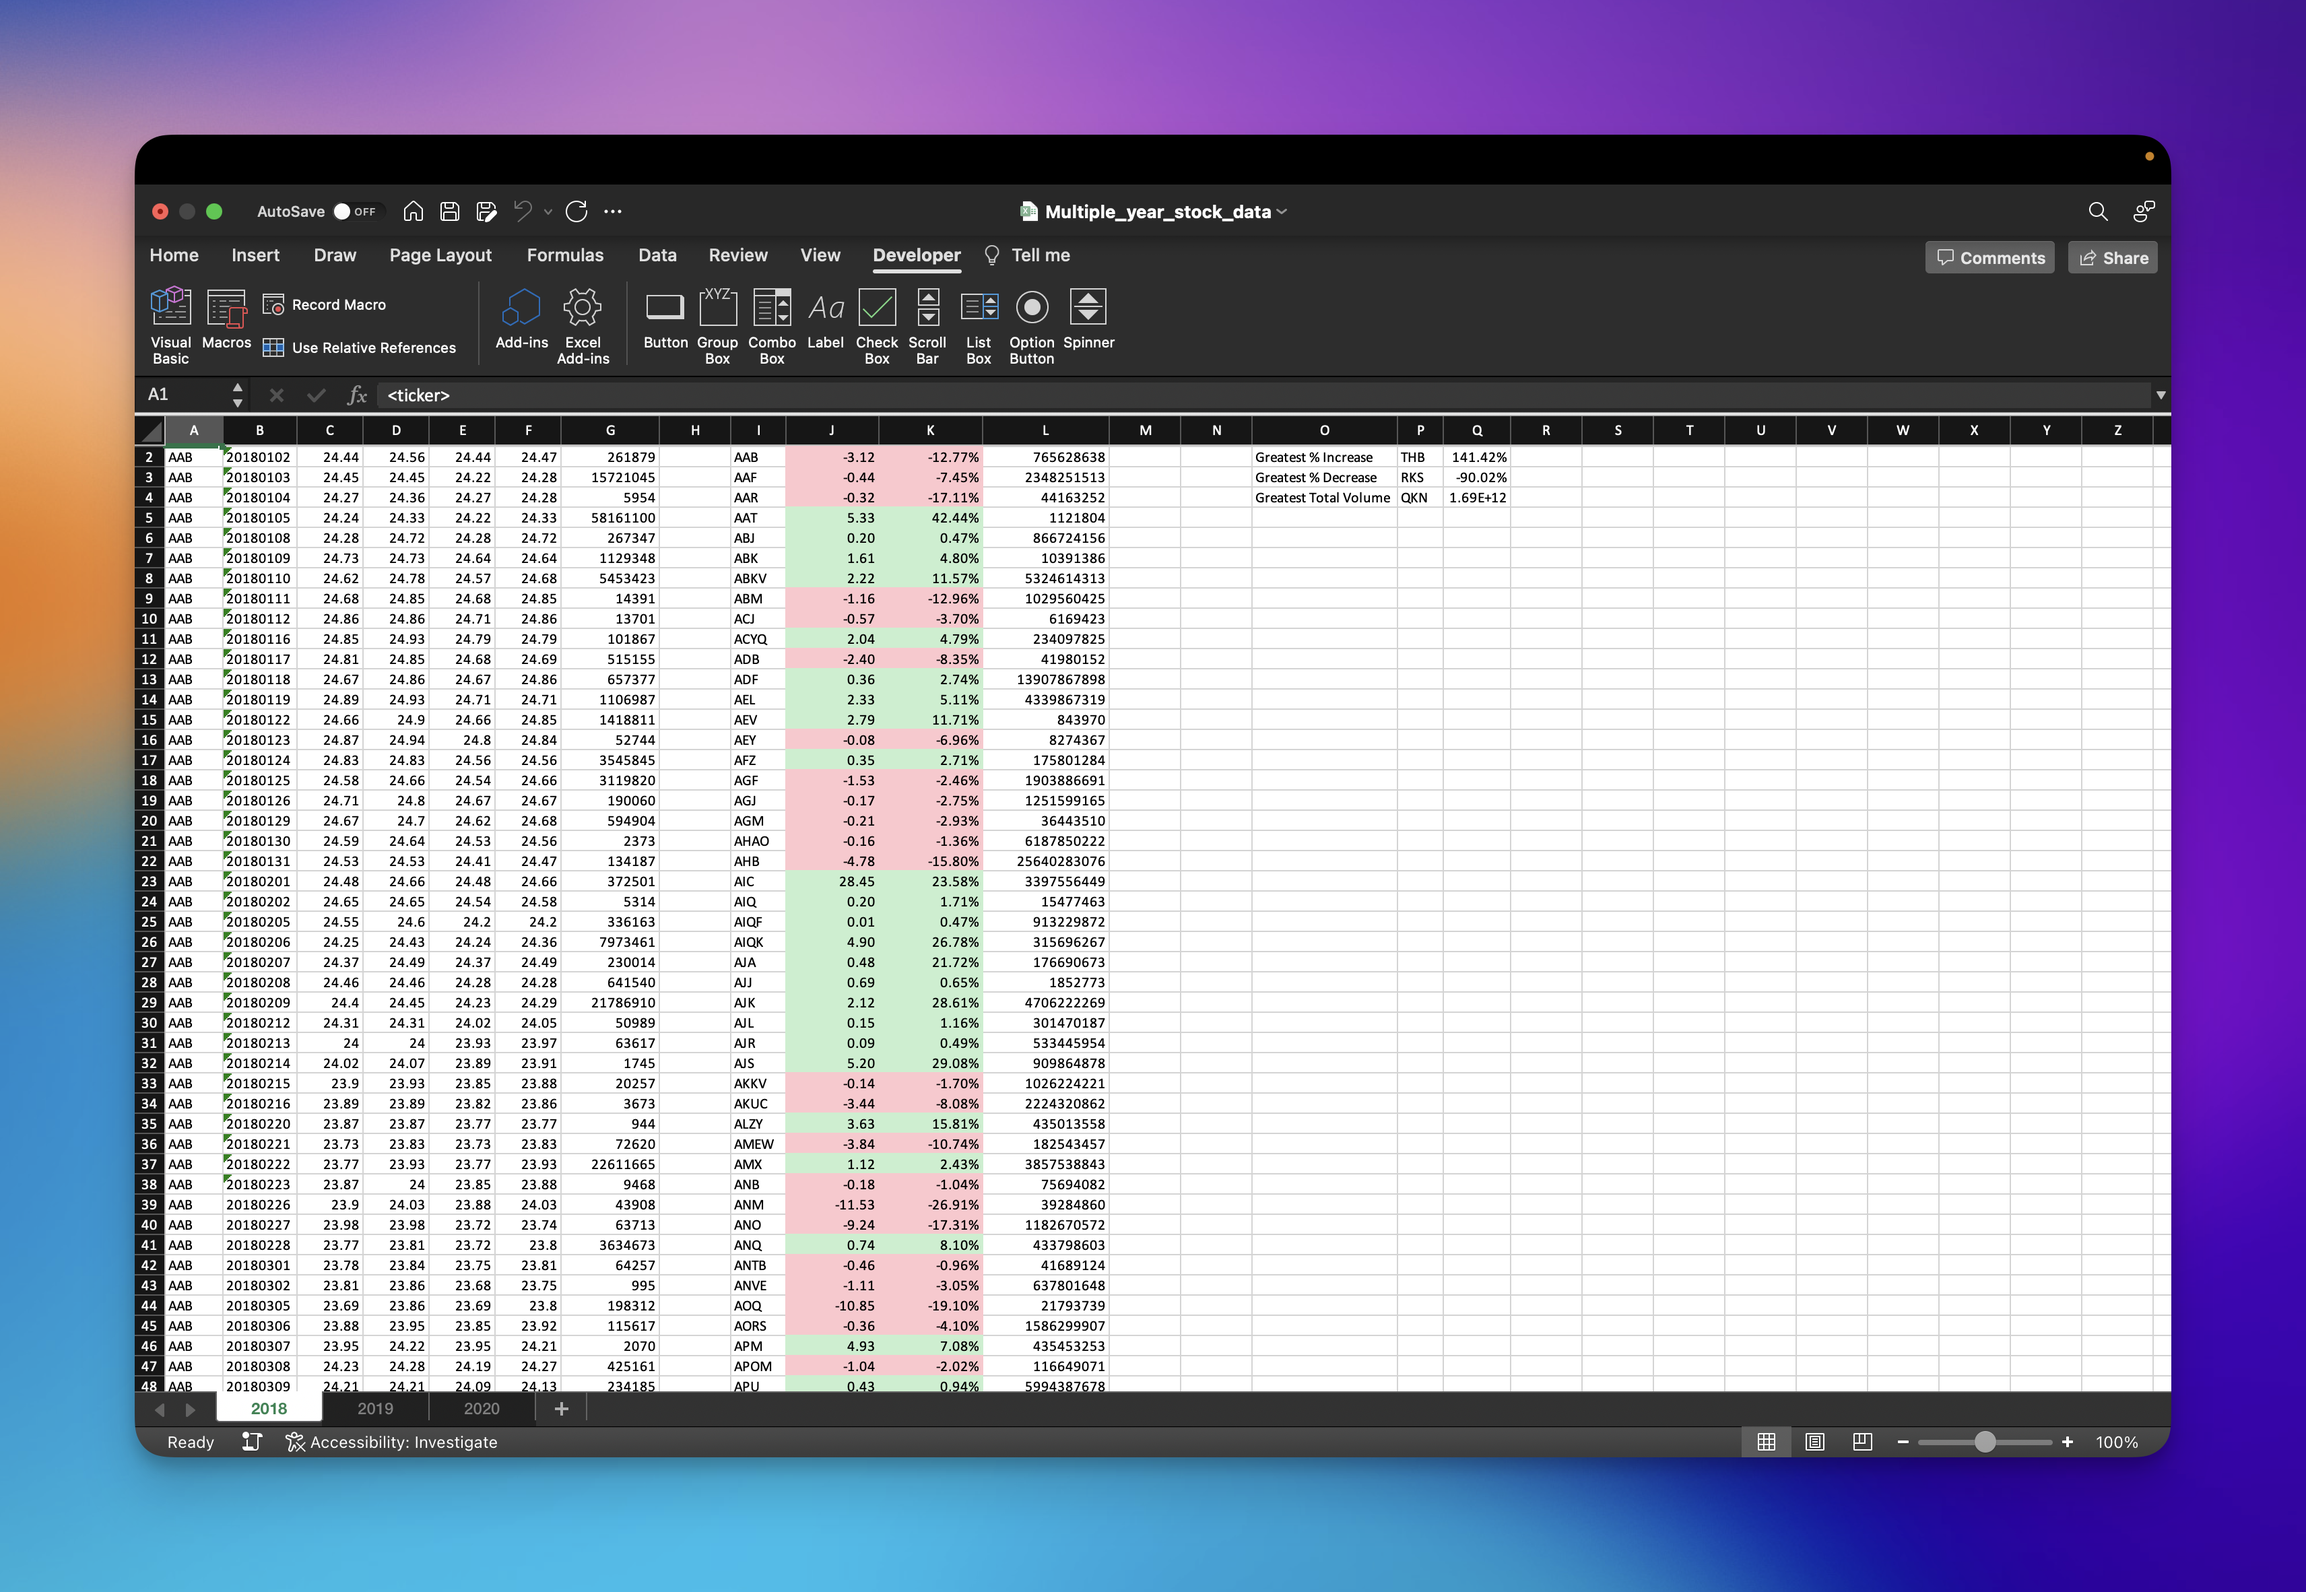
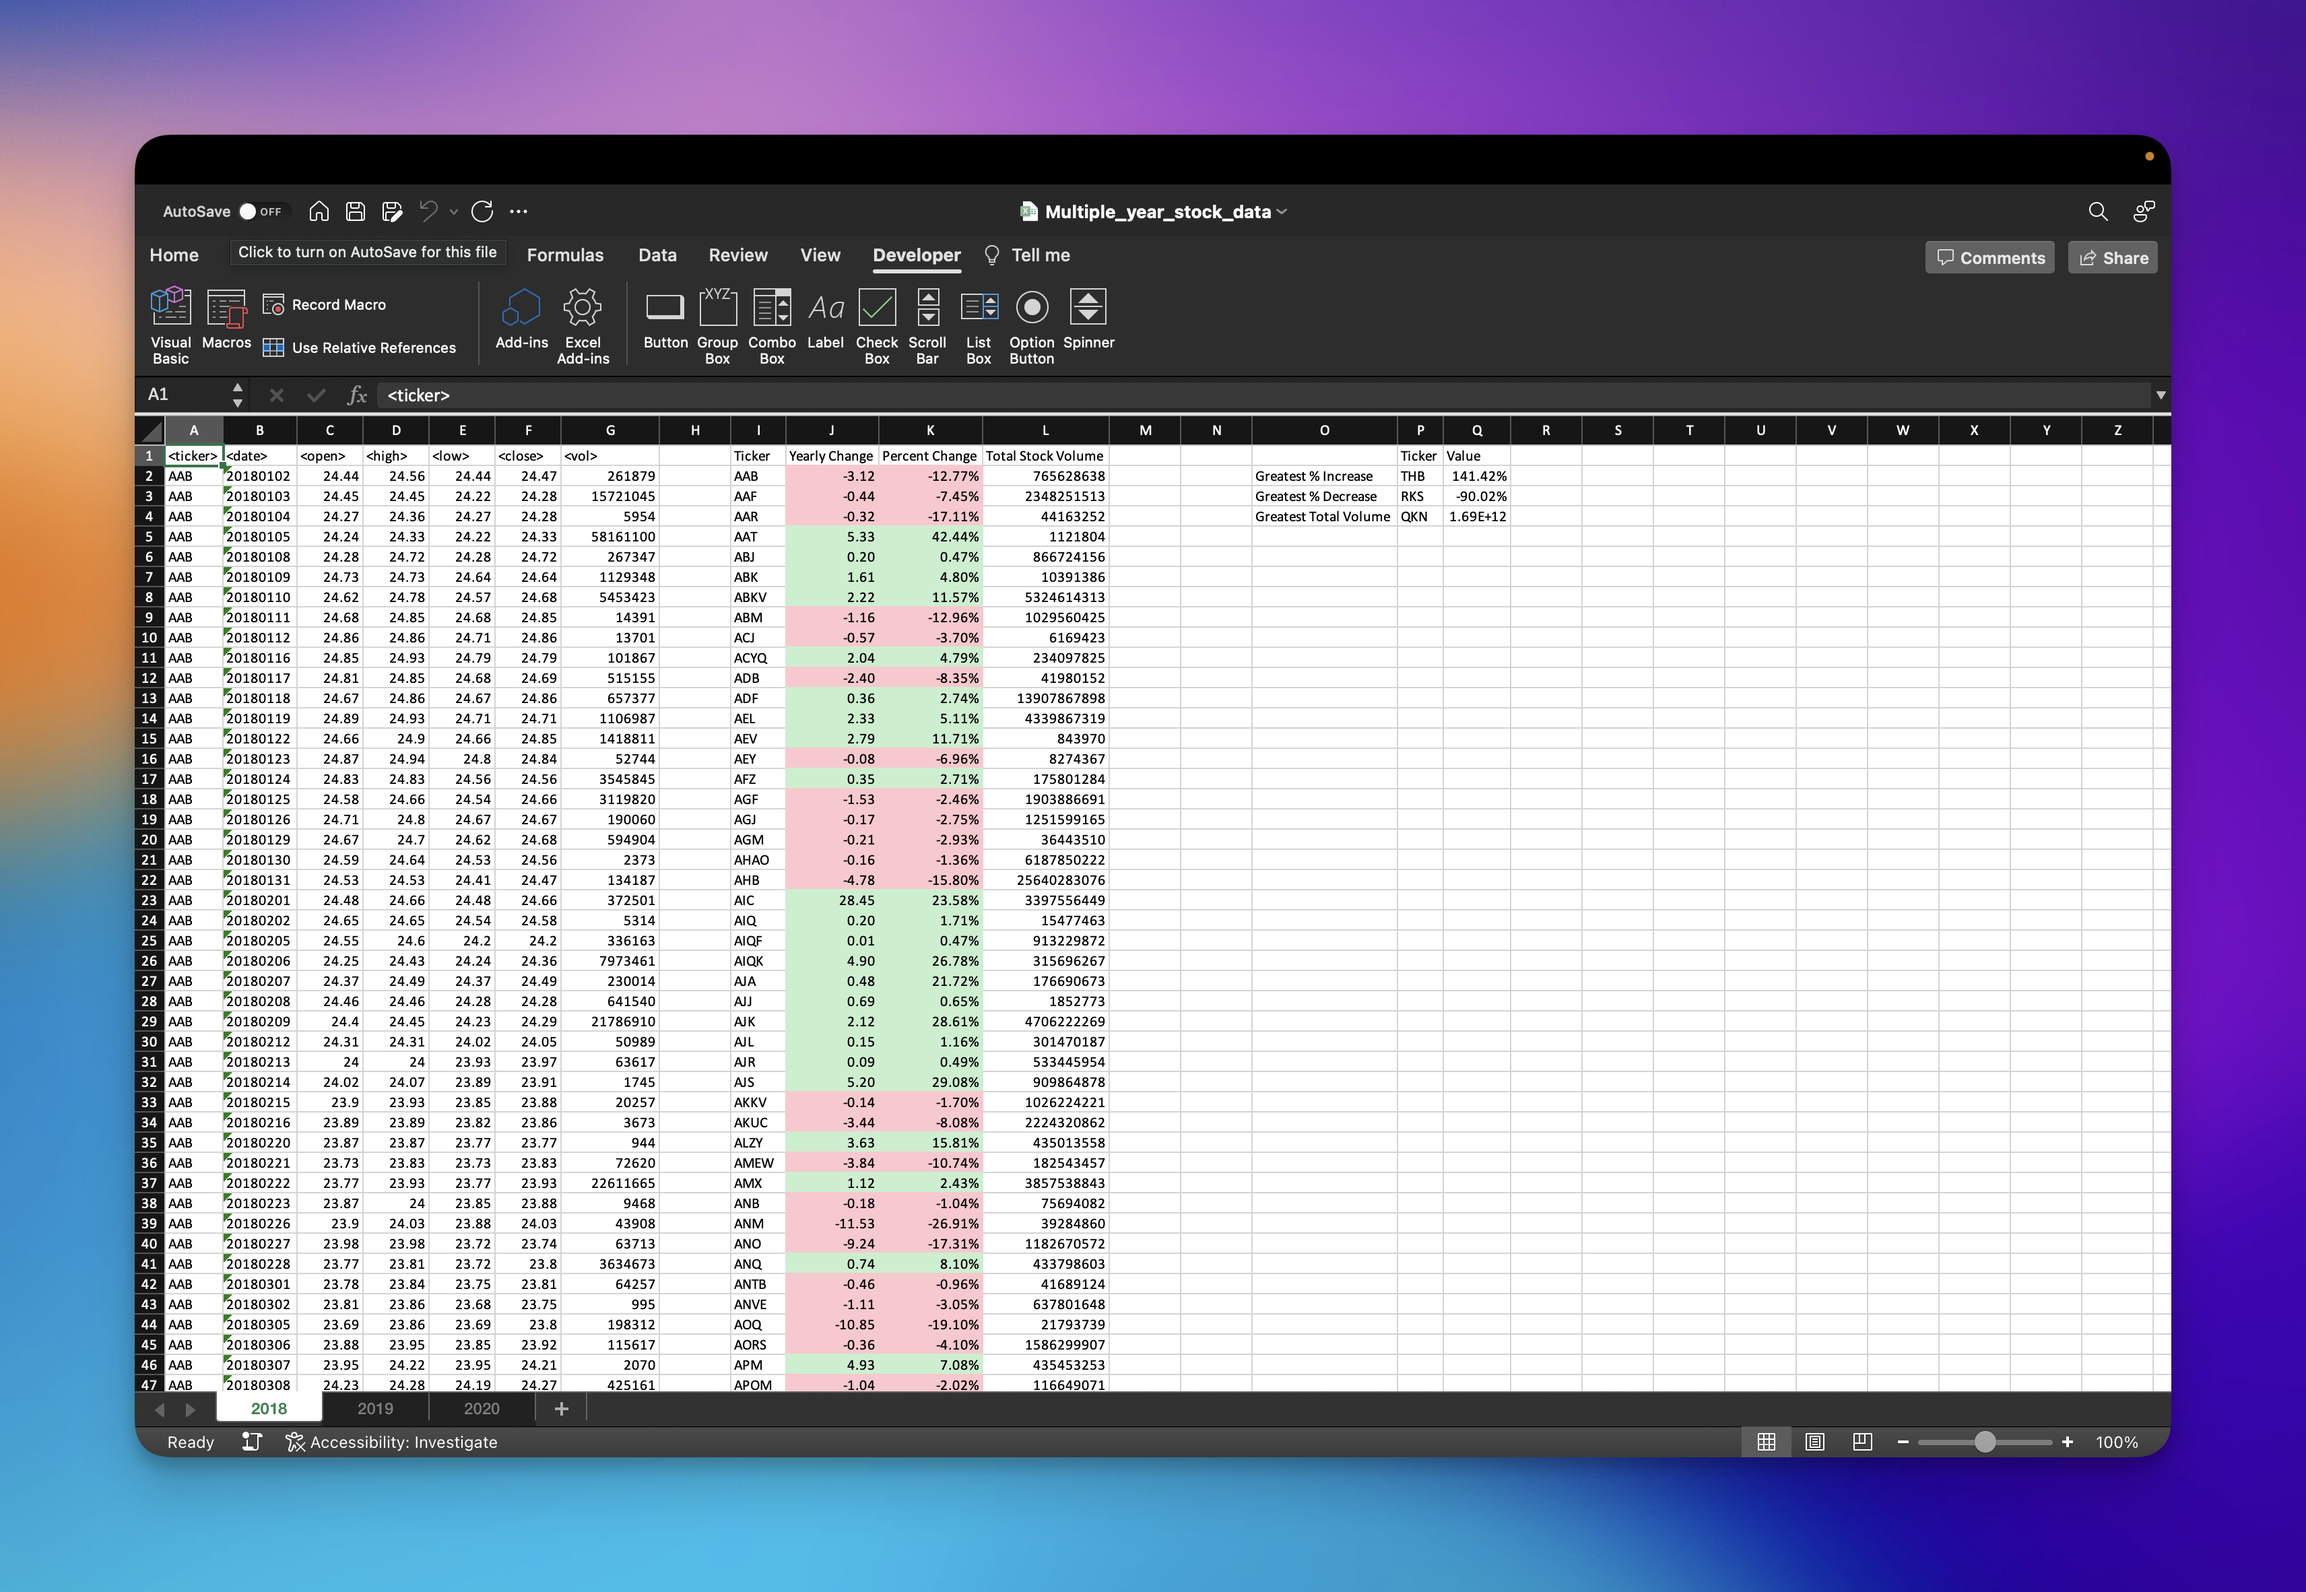
updated readme and 2018 image

Changed region(s): [[0.0625, 0.2779, 0.9375, 0.8955], [0.0625, 0.1235, 0.2188, 0.1853]]

diff --git a/README.md b/README.md
@@ -27,3 +27,6 @@ The vba script is in the `MultiYearStocks.bas` file however if that doesn't work
 2. I mostly used the credit card exercise we worked on in class, along with going over the lecture multiple times to get this figured out.
 3. However I also used [Microsoft VBA documentation](https://learn.microsoft.com/en-us/office/vba/api/overview/) for info on how to format and other information (eg: FormatPercent, autofit, variable types - LongLong)
 4. I also used [ExcelEasy](https://www.excel-easy.com/vba.html) for more information, examples and how to deal with VBA errors
+
+## Submission 2 Notes 
+Added conditional formatting for the Percent Change column (K).
